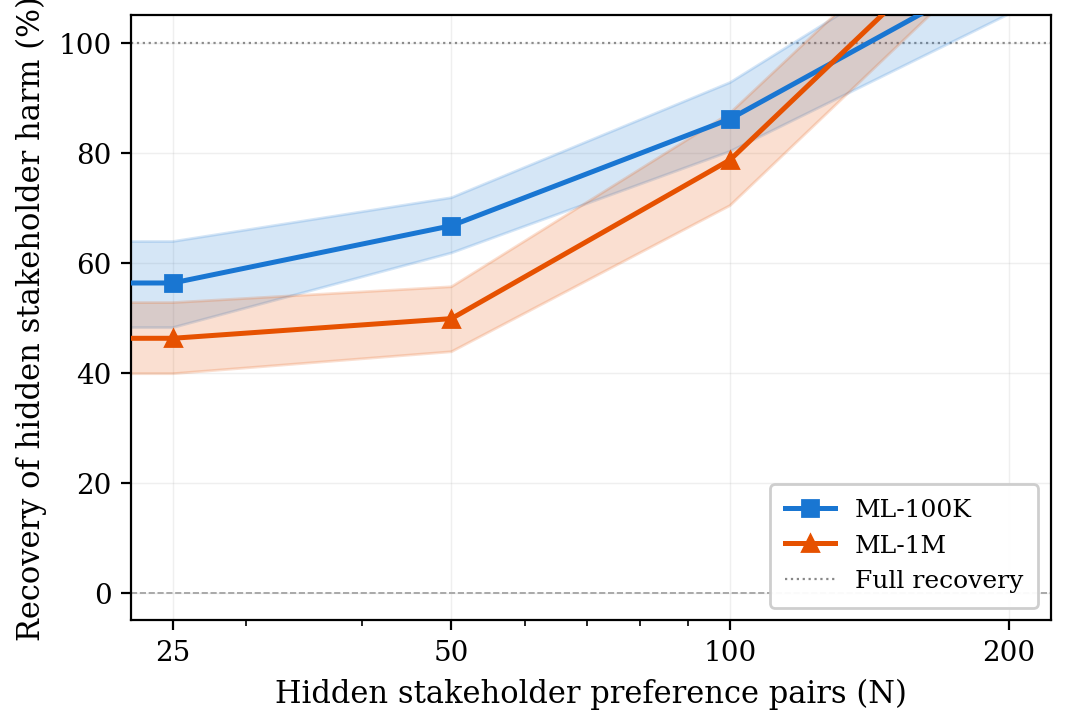
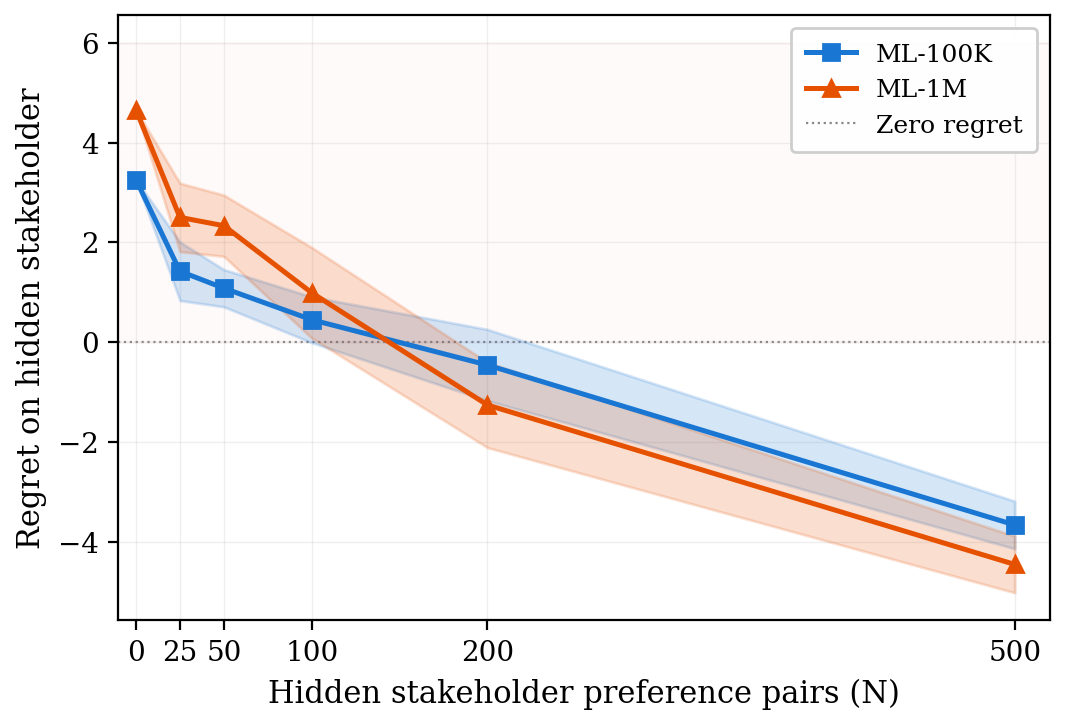
fix(fig5): switch to raw regret metric, linear x-axis, tone down shading

diff --git a/scripts/visualization/generate_paper_figures.py b/scripts/visualization/generate_paper_figures.py
@@ -282,43 +282,44 @@ def fig4_audit_threshold():
 def fig5_data_budget():
     fig, ax = plt.subplots(figsize=(5.5, 3.8))
 
+    # Plot raw regret — no >100% confusion
     datasets = [
-        ("ML-100K", "results/ml-100k_deep_analysis.json", C_100K, "s"),
-        ("ML-1M", "results/ml-1m_deep_analysis.json", C_1M, "^"),
+        ("ML-100K", "results/ml-100k_loso.json", C_100K, "s"),
+        ("ML-1M", "results/ml-1m_loso.json", C_1M, "^"),
     ]
 
     for ds_name, path, color, marker in datasets:
         d = json.load(open(ROOT / path))
-        if "bootstrap" not in d:
+        budget = d.get("data_budget", {})
+        sweep = budget.get("sweep", [])
+        if not sweep:
             continue
-        entries = d["bootstrap"]["per_n"]
-        N = np.array([e["n_pairs"] for e in entries])
-        rec = np.array([e["recovery_mean"] * 100 for e in entries])
-        lo = np.array([e["recovery_ci_lo"] * 100 for e in entries])
-        hi = np.array([e["recovery_ci_hi"] * 100 for e in entries])
 
-        # Show up to N=200 where recovery stays below ~100%
-        mask = N <= 200
-        ax.plot(N[mask], rec[mask], color=color,
+        N = np.array([e["n_pairs"] for e in sweep], dtype=float)
+        regret = np.array([e["avg_regret_mean"] for e in sweep])
+        std = np.array([e["avg_regret_std"] for e in sweep])
+
+        # Show up to N=500
+        mask = N <= 500
+        ax.plot(N[mask], regret[mask], color=color,
                 marker=marker, markersize=5.5, linewidth=1.8,
                 label=ds_name, zorder=3)
-        ax.fill_between(N[mask], lo[mask], hi[mask],
+        ax.fill_between(N[mask], (regret - std)[mask], (regret + std)[mask],
                          alpha=0.18, color=color, zorder=2)
 
-    ax.axhline(y=0, color="#999999", linewidth=0.6, linestyle="--", zorder=1)
-    ax.axhline(y=100, color="#888888", linewidth=0.8, linestyle=":",
-               zorder=1, label="Full recovery")
+    # Zero regret line
+    ax.axhline(y=0, color="#888888", linewidth=0.8, linestyle=":",
+               zorder=1, label="Zero regret")
 
-    # No extra annotation — the data points and CI bands tell the story
+    # Subtle shading: regret > 0 = harm zone
+    ax.axhspan(0, 6, alpha=0.02, color="red", zorder=0)
 
-    ax.set_xscale("log")
-    ax.xaxis.set_major_formatter(mticker.ScalarFormatter())
-    ax.set_xticks([25, 50, 100, 200])
-    ax.xaxis.set_minor_formatter(mticker.NullFormatter())
+    # Linear x-axis with evenly spaced ticks at actual N values
+    ax.set_xlim(-10, 520)
+    ax.set_xticks([0, 25, 50, 100, 200, 500])
     ax.set_xlabel("Hidden stakeholder preference pairs (N)")
-    ax.set_ylabel("Recovery of hidden stakeholder harm (%)")
-    ax.set_ylim(-5, 105)
-    ax.legend(loc="lower right", fontsize=9, framealpha=0.95,
+    ax.set_ylabel("Regret on hidden stakeholder")
+    ax.legend(loc="upper right", fontsize=9, framealpha=0.95,
               edgecolor="#CCCCCC", borderpad=0.6)
     ax.grid(True, alpha=0.2, linewidth=0.5)
 
